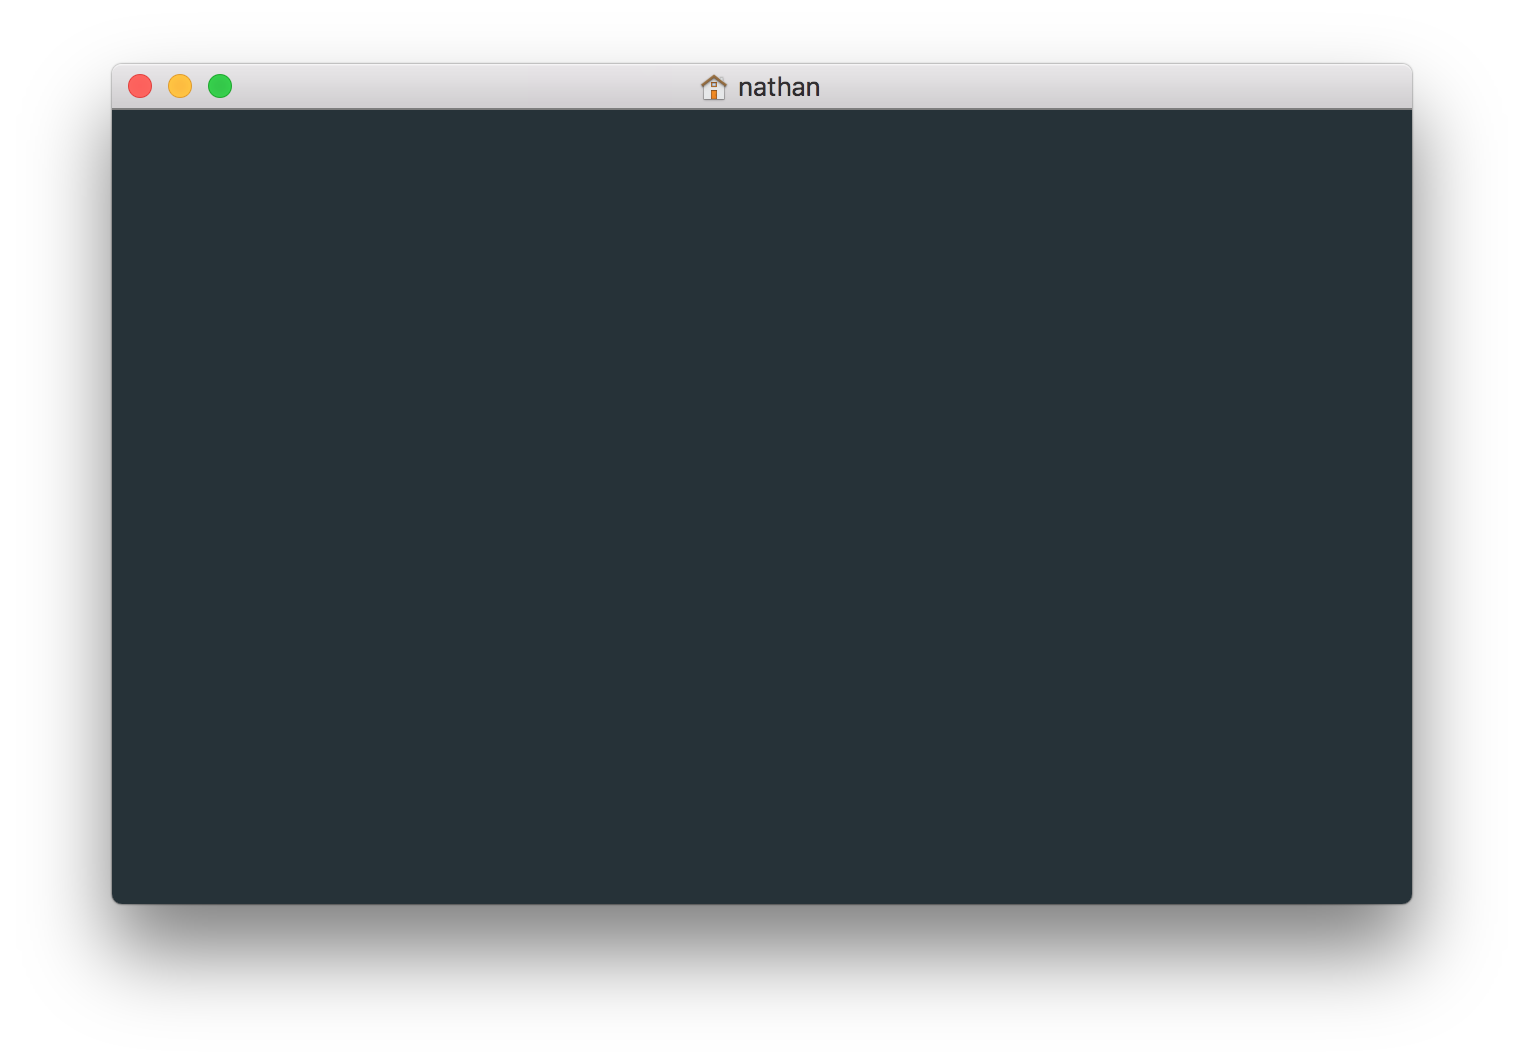
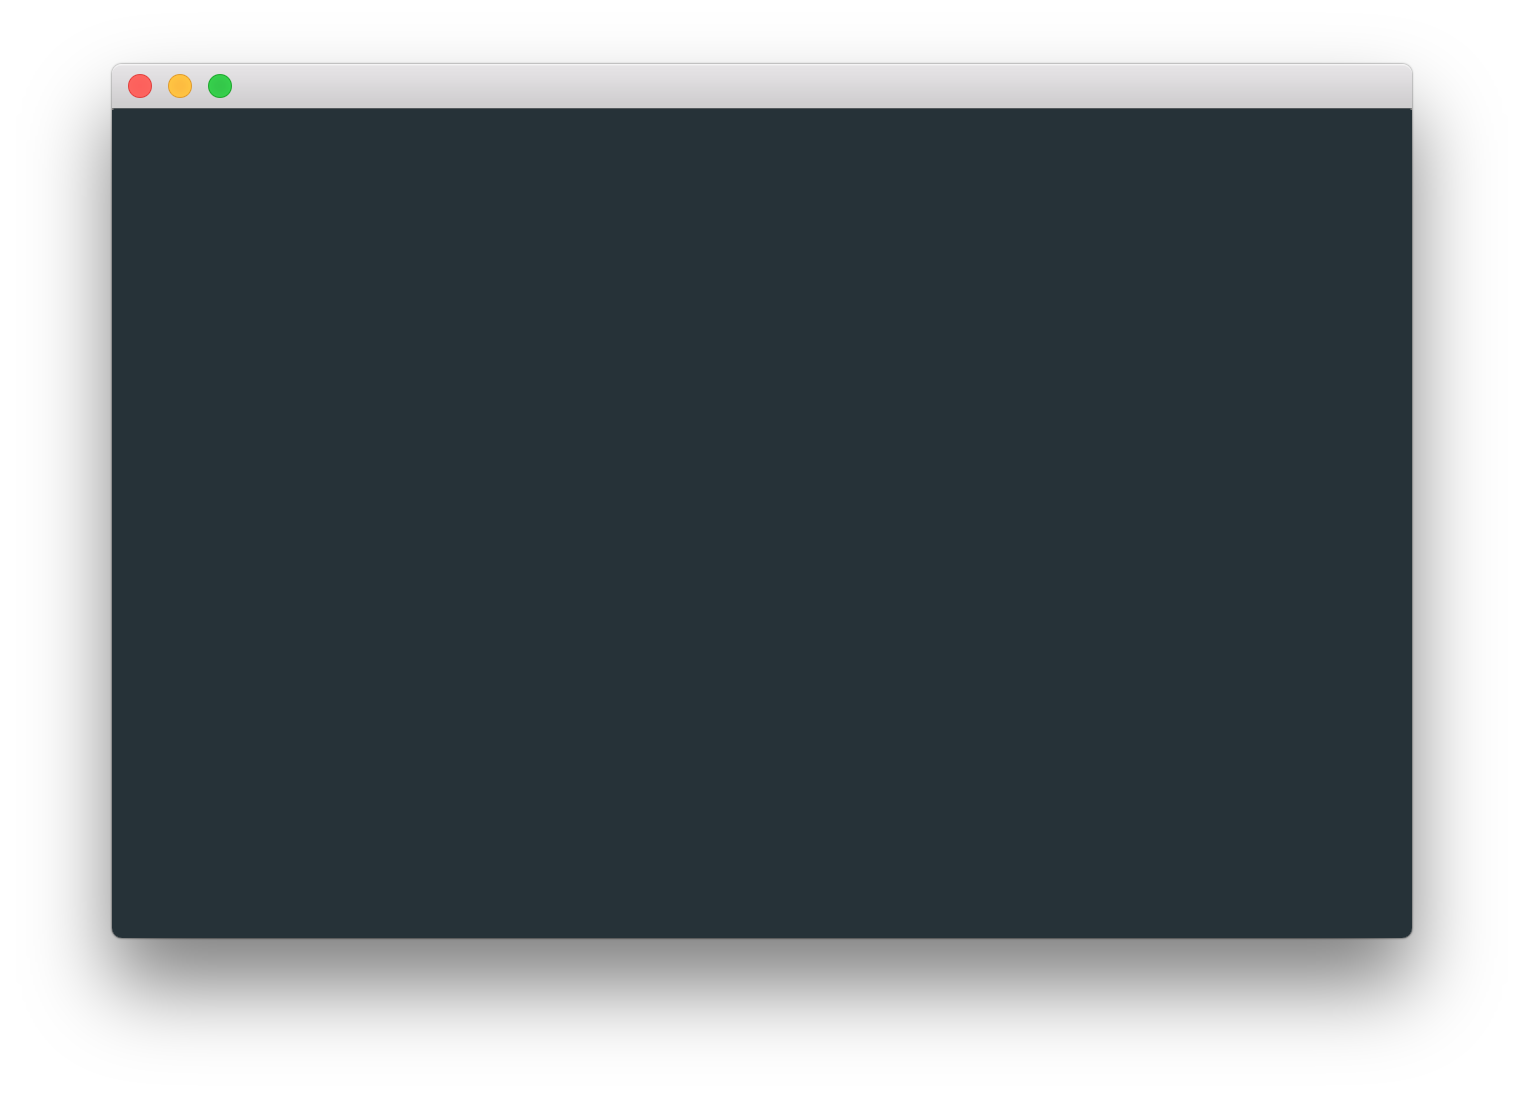
Improved terminal design and added output container

Changed region(s): [[0.0617, 0.062, 0.9252, 0.1241], [0.0617, 0.8374, 0.9252, 0.8684]]

diff --git a/css/app.css b/css/app.css
@@ -1,21 +1,36 @@
 body {
+    background: #ccc url("https://www.toptal.com/designers/subtlepatterns/patterns/debut_light.png");
     font-family: Monaco, 'Courier New', Courier, monospace;
     padding: 10px;
-    background: #ddd;
+    margin: 0;
 }
 
 .terminal {
     max-width: 100%;
     width: 700px;
-    margin: 0 auto;
+    margin: 40px auto;
     position: relative;
 }
 .terminal img.bg {
     width: 100%;
     height: 100%;
     z-index: 1;
+    opacity: 0.9;
 }
-.terminal .container {
+.terminal .bar {
+    background: none;
+    position: absolute;
+    top: -26px;
+    left: 0;
+    width: 100%;
+    height: 18px;
+    font-size: 13px;
+    font-family: 'Helvetica Neue', Helvetica, Arial, sans-serif;
+    text-align: center;
+    color: #222;
+    opacity: 0.9;
+}
+.terminal .window {
     position: absolute;
     top: 11.5%;
     left: 8.5%;
@@ -25,10 +40,11 @@ body {
     color: #eee;
     font-size: 14px;
     background: none;
+    cursor: text;
 }
 
 .terminal input {
-    width: 93%;
+    width: 96%;
     background: none;
     border: 0;
     outline: 0;

diff --git a/index.html b/index.html
@@ -7,8 +7,12 @@
 <body>
     <div class="terminal">
         <img src="img/terminal.png" class="bg" />
-        <div class="container">
-            $ > <input type="text" id="command" autofocus />
+        <div class="window">
+            <div class="bar">bash ~/</div>
+            <div id="output">Hello there! Welcome to my site...</div>
+            <div class="command-input">
+                $ <input type="text" id="command" autofocus spellcheck="false" autocomplete="false" />
+            </div>
         </div>
     </div>
 </body>
